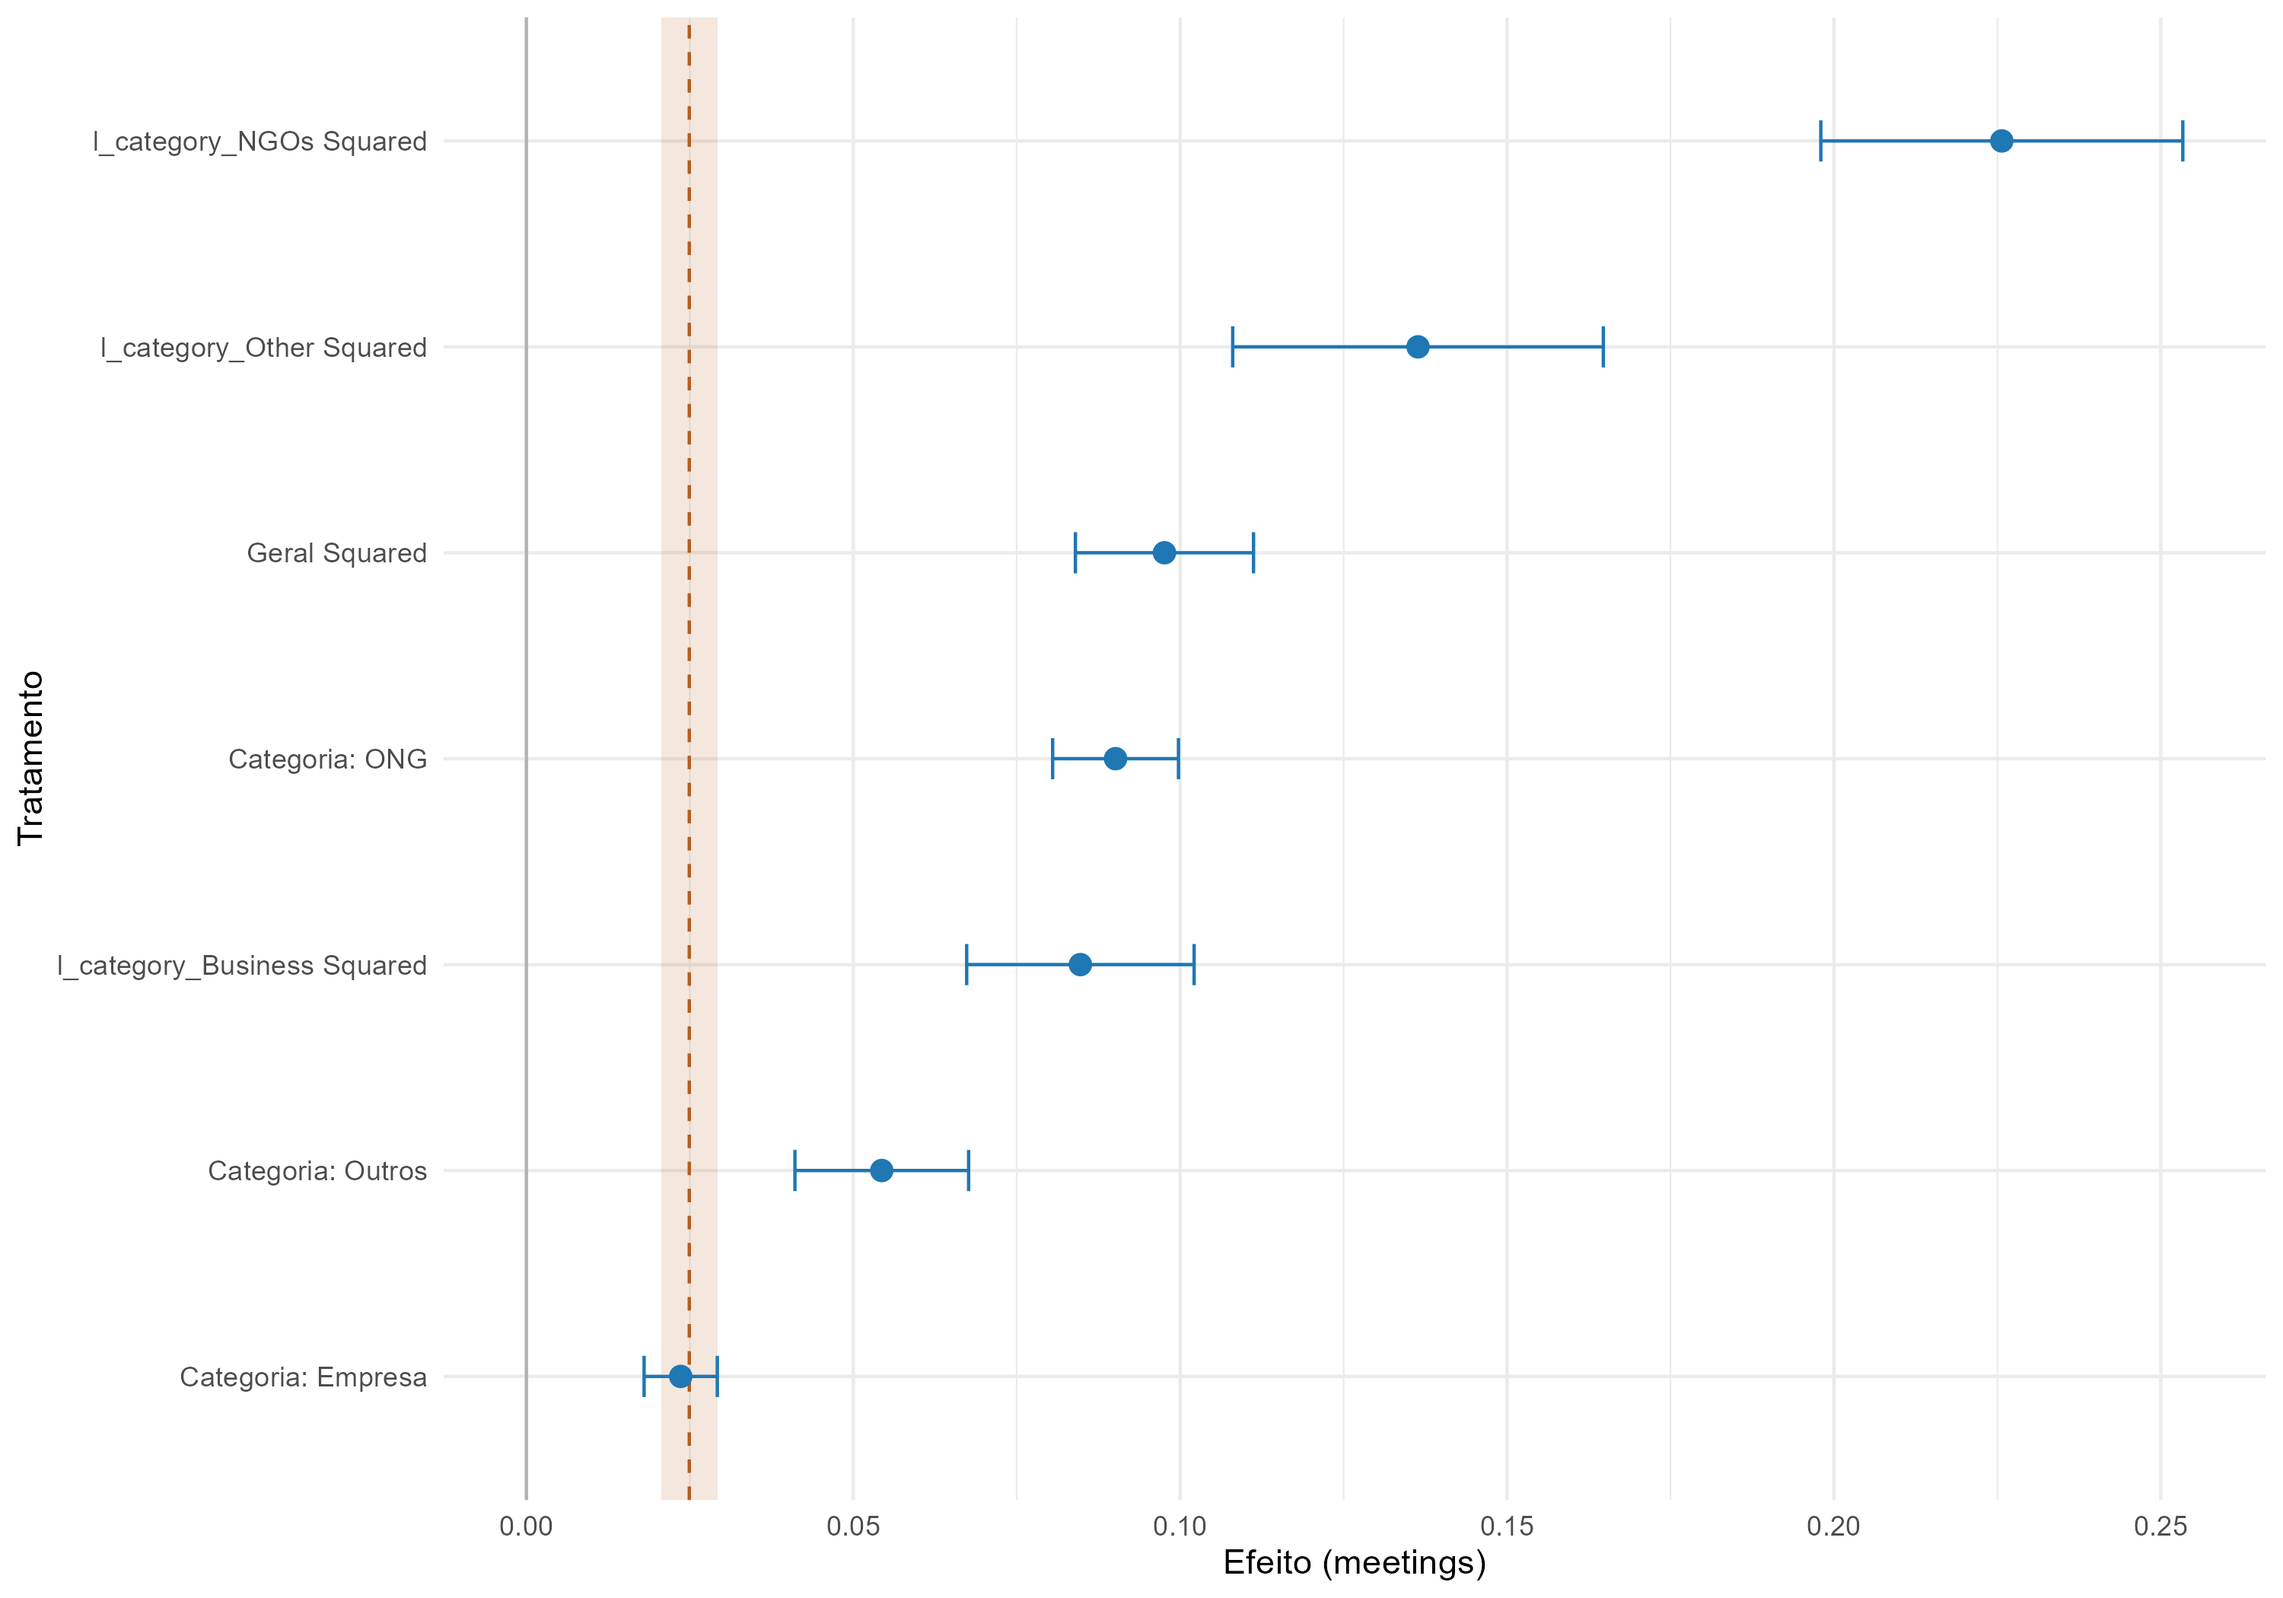
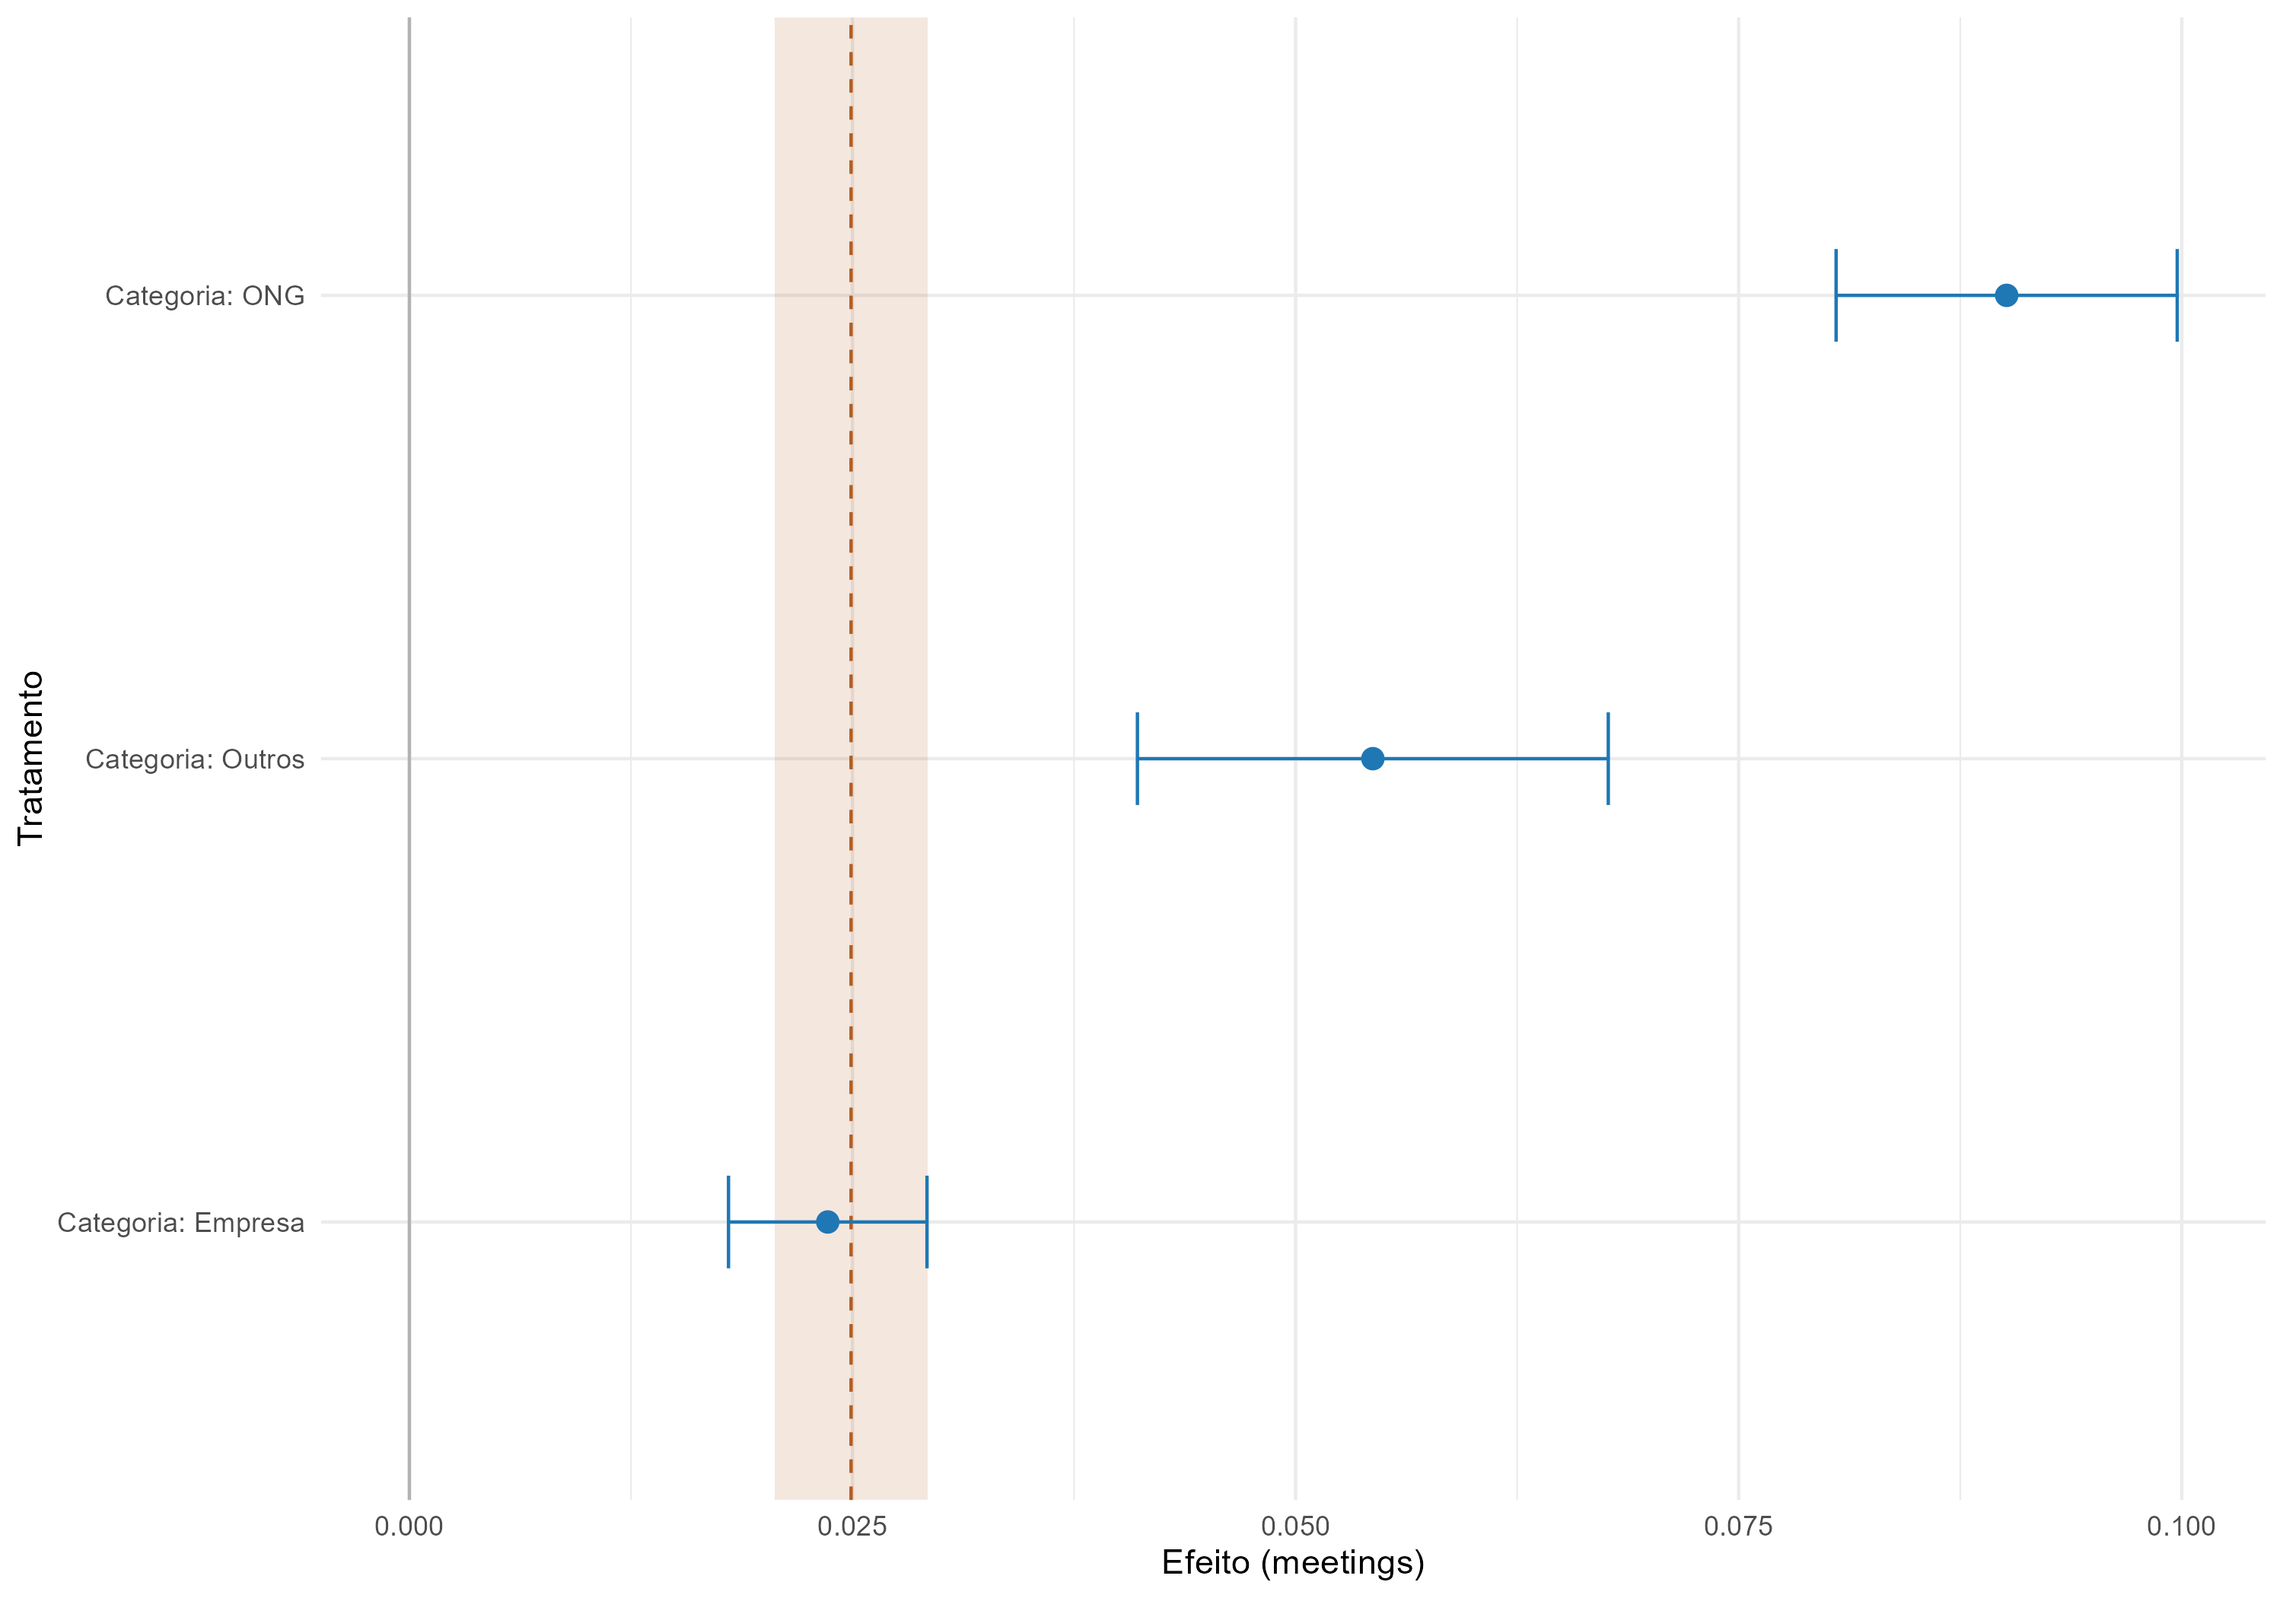
feat: update figures and add new LaTeX table for PPML analysis; enhance visualizations with maximum factor annotations and streamline treatment effect results in R script

diff --git a/Tese/tables/h1_test/tab_main_ppml.tex b/Tese/tables/h1_test/tab_main_ppml.tex
@@ -1,0 +1,150 @@
+\begin{table}
+\centering
+\begin{talltblr}[         %% tabularray outer open
+entry=none,label=none,
+note{}={+ p \num{< 0.1}, * p \num{< 0.05}, ** p \num{< 0.01}, *** p \num{< 0.001}},
+]                     %% tabularray outer close
+{                     %% tabularray inner open
+colspec={Q[]Q[]},
+column{2}={}{halign=c,},
+column{1}={}{halign=l,},
+hline{128}={1-2}{solid, black, 0.05em},
+}                     %% tabularray inner close
+\toprule
+& DDD PPML \\ \midrule %% TinyTableHeader
+meetings & \num{0.025}*** \\
+& (\num{0.002}) \\
+meps\_POLITICAL\_GROUP\_5148.0 & \num{0.238} \\
+& (\num{0.622}) \\
+meps\_POLITICAL\_GROUP\_5152.0 & \num{0.061} \\
+& (\num{0.306}) \\
+meps\_POLITICAL\_GROUP\_5153.0 & \num{-0.268} \\
+& (\num{0.180}) \\
+meps\_POLITICAL\_GROUP\_5154.0 & \num{-0.004} \\
+& (\num{0.237}) \\
+meps\_POLITICAL\_GROUP\_5155.0 & \num{1.182}*** \\
+& (\num{0.186}) \\
+meps\_POLITICAL\_GROUP\_5588.0 & \num{-0.778}*** \\
+& (\num{0.176}) \\
+meps\_POLITICAL\_GROUP\_5704.0 & \num{0.014} \\
+& (\num{0.153}) \\
+meps\_POLITICAL\_GROUP\_6259.0 & \num{-0.317} \\
+& (\num{0.468}) \\
+meps\_POLITICAL\_GROUP\_6561.0 & \num{12.296}*** \\
+& (\num{0.284}) \\
+meps\_POLITICAL\_GROUP\_7018.0 & \num{12.261}*** \\
+& (\num{0.409}) \\
+meps\_POLITICAL\_GROUP\_7028.0 & \num{13.732}*** \\
+& (\num{0.375}) \\
+meps\_POLITICAL\_GROUP\_7035.0 & \num{14.133}*** \\
+& (\num{0.324}) \\
+meps\_POLITICAL\_GROUP\_7036.0 & \num{15.658}*** \\
+& (\num{0.177}) \\
+meps\_POLITICAL\_GROUP\_7037.0 & \num{14.655}*** \\
+& (\num{0.264}) \\
+meps\_POLITICAL\_GROUP\_7038.0 & \num{13.449}*** \\
+& (\num{0.285}) \\
+meps\_POLITICAL\_GROUP\_7150.0 & \num{14.582}*** \\
+& (\num{0.215}) \\
+meps\_POLITICAL\_GROUP\_7151.0 & \num{13.494}*** \\
+& (\num{0.495}) \\
+meps\_COUNTRY\_AUT & \num{3.368}*** \\
+& (\num{0.439}) \\
+meps\_COUNTRY\_BEL & \num{2.992}*** \\
+& (\num{0.433}) \\
+meps\_COUNTRY\_BGR & \num{3.277}*** \\
+& (\num{0.425}) \\
+meps\_COUNTRY\_CYP & \num{19.060}*** \\
+& (\num{0.778}) \\
+meps\_COUNTRY\_CZE & \num{19.020}*** \\
+& (\num{0.604}) \\
+meps\_COUNTRY\_DEU & \num{17.573}*** \\
+& (\num{0.652}) \\
+meps\_COUNTRY\_DNK & \num{18.904}*** \\
+& (\num{0.503}) \\
+meps\_COUNTRY\_ESP & \num{18.917}*** \\
+& (\num{0.584}) \\
+meps\_COUNTRY\_EST & \num{16.191}*** \\
+& (\num{0.480}) \\
+meps\_COUNTRY\_FIN & \num{3.209}*** \\
+& (\num{0.451}) \\
+meps\_COUNTRY\_FRA & \num{16.740}*** \\
+& (\num{0.498}) \\
+meps\_COUNTRY\_GRC & \num{20.249}*** \\
+& (\num{0.529}) \\
+meps\_COUNTRY\_HRV & \num{2.589}*** \\
+& (\num{0.498}) \\
+meps\_COUNTRY\_HUN & \num{3.732}*** \\
+& (\num{0.441}) \\
+meps\_COUNTRY\_IRL & \num{1.865}* \\
+& (\num{0.900}) \\
+meps\_COUNTRY\_ITA & \num{19.337}*** \\
+& (\num{0.480}) \\
+meps\_COUNTRY\_LTU & \num{3.605}*** \\
+& (\num{0.443}) \\
+meps\_COUNTRY\_LUX & \num{2.640}*** \\
+& (\num{0.498}) \\
+meps\_COUNTRY\_LVA & \num{2.604}*** \\
+& (\num{0.469}) \\
+meps\_COUNTRY\_MLT & \num{0.706} \\
+& (\num{1.089}) \\
+meps\_COUNTRY\_NLD & \num{18.712}*** \\
+& (\num{0.529}) \\
+meps\_COUNTRY\_POL & \num{17.410}*** \\
+& (\num{0.559}) \\
+meps\_COUNTRY\_PRT & \num{17.230}*** \\
+& (\num{0.435}) \\
+meps\_COUNTRY\_ROU & \num{16.840}*** \\
+& (\num{0.983}) \\
+meps\_COUNTRY\_SVK & \num{18.808}*** \\
+& (\num{0.794}) \\
+meps\_COUNTRY\_SVN & \num{1.901}+ \\
+& (\num{1.045}) \\
+meps\_COUNTRY\_SWE & \num{18.612}*** \\
+& (\num{0.552}) \\
+meps\_COMMITTEE\_PARLIAMENTARY\_SPECIAL\_\_\_CHAIR & \num{0.321}** \\
+& (\num{0.112}) \\
+meps\_COMMITTEE\_PARLIAMENTARY\_SPECIAL\_\_\_MEMBER & \num{0.386}*** \\
+& (\num{0.028}) \\
+meps\_COMMITTEE\_PARLIAMENTARY\_STANDING\_\_\_CHAIR & \num{-0.271}*** \\
+& (\num{0.028}) \\
+meps\_COMMITTEE\_PARLIAMENTARY\_STANDING\_\_\_MEMBER & \num{-0.000} \\
+& (\num{0.018}) \\
+meps\_COMMITTEE\_PARLIAMENTARY\_SUB\_\_\_CHAIR & \num{-0.043} \\
+& (\num{0.064}) \\
+meps\_COMMITTEE\_PARLIAMENTARY\_SUB\_\_\_MEMBER & \num{-0.011} \\
+& (\num{0.015}) \\
+meps\_DELEGATION\_PARLIAMENTARY\_\_\_CHAIR & \num{0.164}*** \\
+& (\num{0.020}) \\
+meps\_DELEGATION\_PARLIAMENTARY\_\_\_MEMBER & \num{-0.055}*** \\
+& (\num{0.008}) \\
+meps\_EU\_INSTITUTION\_\_\_PRESIDENT & \num{-18.132}*** \\
+& (\num{0.221}) \\
+meps\_EU\_INSTITUTION\_\_\_QUAESTOR & \num{0.011} \\
+& (\num{0.067}) \\
+meps\_EU\_POLITICAL\_GROUP\_\_\_CHAIR & \num{-1.976}*** \\
+& (\num{0.159}) \\
+meps\_EU\_POLITICAL\_GROUP\_\_\_MEMBER\_BUREAU & \num{0.010} \\
+& (\num{0.027}) \\
+meps\_EU\_POLITICAL\_GROUP\_\_\_TREASURER & \num{0.287}* \\
+& (\num{0.112}) \\
+meps\_EU\_POLITICAL\_GROUP\_\_\_TREASURER\_CO & \num{1.096}*** \\
+& (\num{0.092}) \\
+meps\_NATIONAL\_CHAMBER\_\_\_PRESIDENT\_VICE & \num{-0.316}* \\
+& (\num{0.155}) \\
+meps\_WORKING\_GROUP\_\_\_CHAIR & \num{0.321}*** \\
+& (\num{0.032}) \\
+meps\_WORKING\_GROUP\_\_\_MEMBER & \num{0.200}*** \\
+& (\num{0.014}) \\
+meps\_WORKING\_GROUP\_\_\_MEMBER\_BUREAU & \num{0.130}*** \\
+& (\num{0.033}) \\
+Num.Obs. & \num{600237} \\
+R2 & \num{0.253} \\
+RMSE & \num{0.56} \\
+Std.Errors & by: cl\_dt \\
+FE: fe\_ct & X \\
+FE: fe\_pt & X \\
+FE: fe\_dt & X \\
+\bottomrule
+\end{talltblr}
+\end{table}
